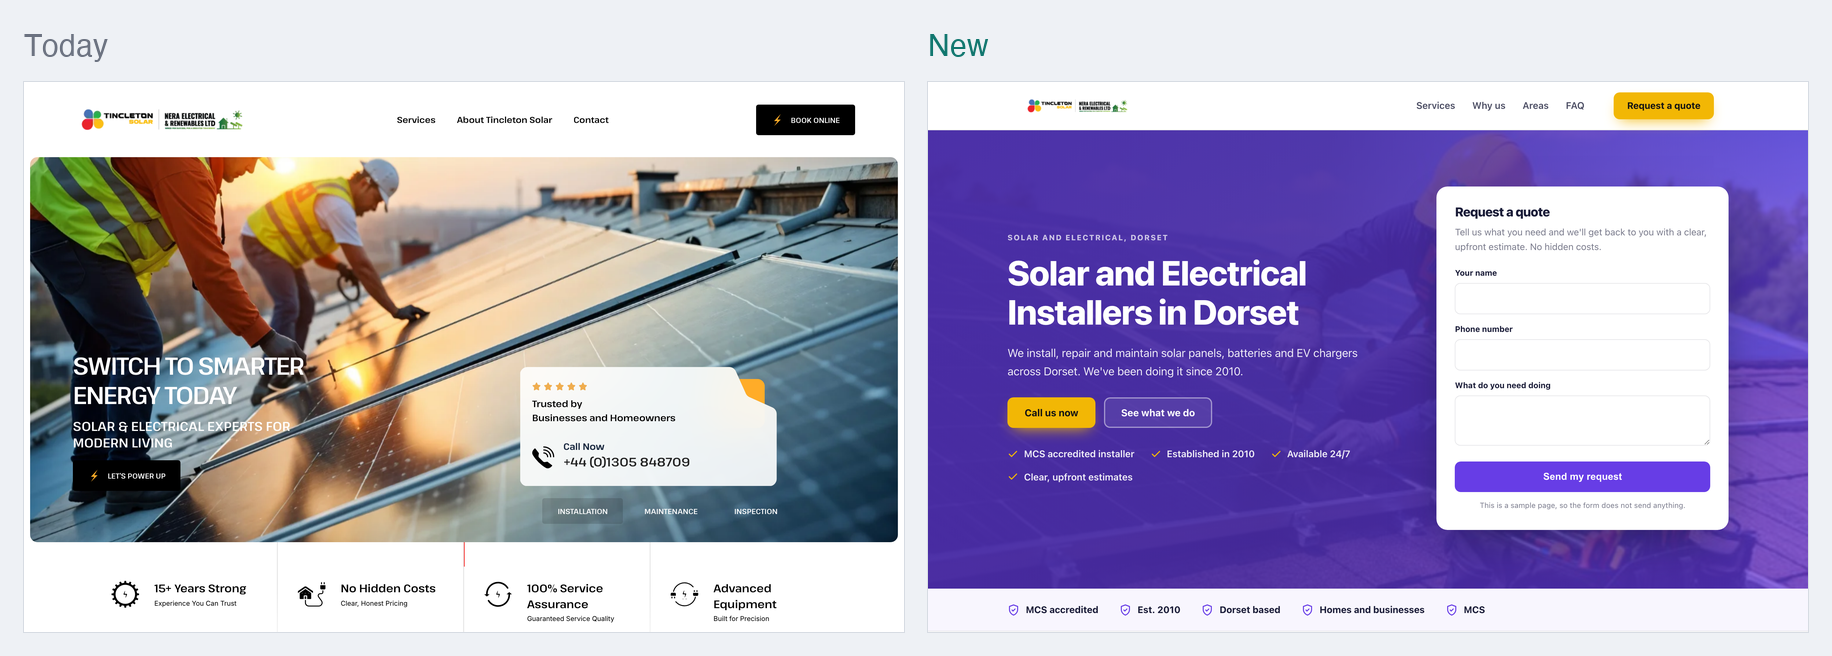
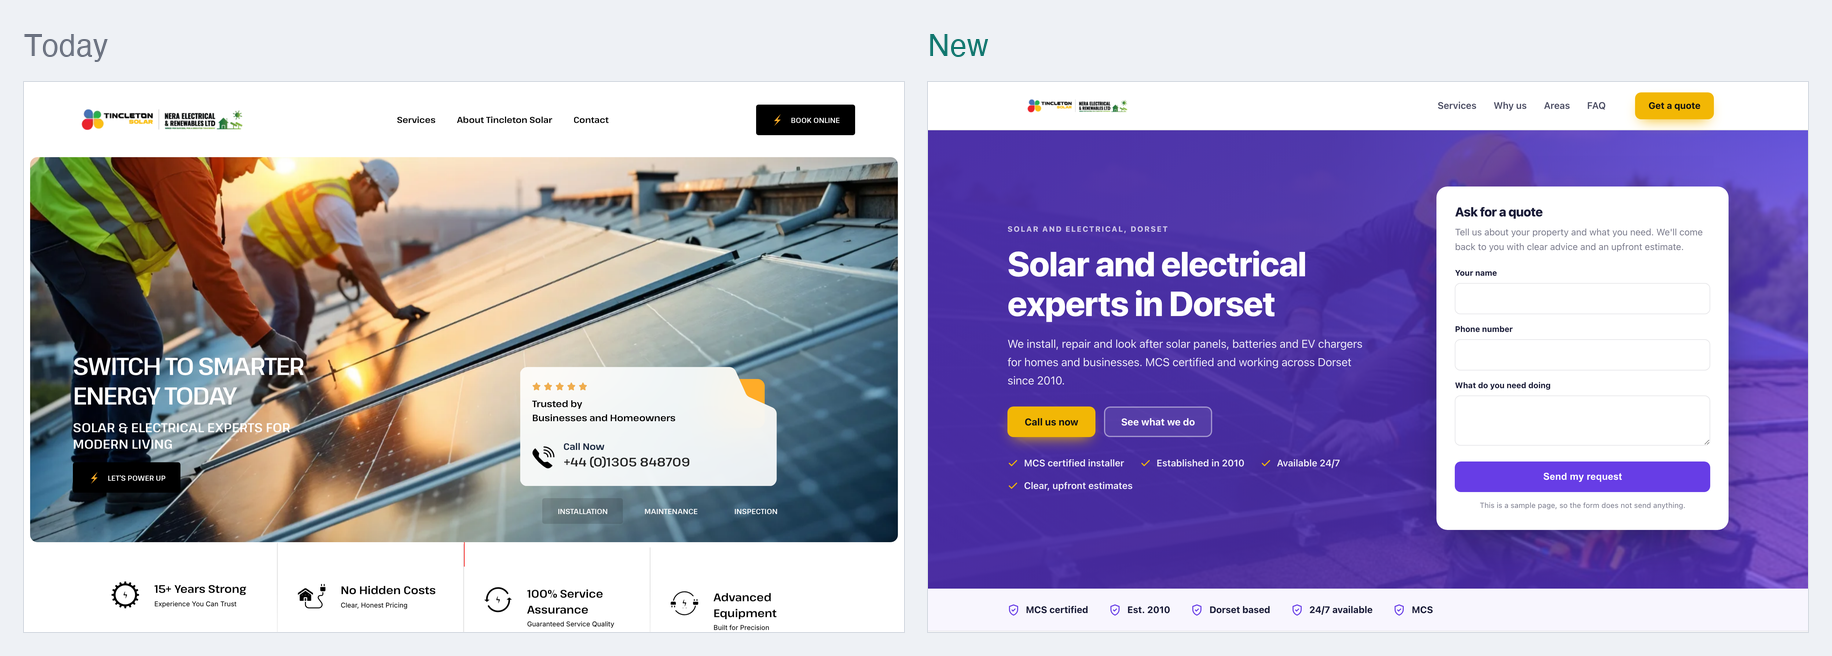
One page sample for Tincleton Solar

diff --git a/docs/0d2117ee6b/index.html b/docs/0d2117ee6b/index.html
@@ -4,14 +4,14 @@
 <meta charset="utf-8">
 <meta name="viewport" content="width=device-width, initial-scale=1">
 <meta name="robots" content="noindex,nofollow">
-<meta name="aso-build" content="022220adff9b">
-<title>Solar &amp; Electrical Installers Dorset | Tincleton Solar</title>
-<meta name="description" content="MCS accredited solar, battery and EV charger installers in Dorset. Tincleton Solar has worked on homes and businesses across the county since 2010.">
+<meta name="aso-build" content="1b9f0f8c0a60">
+<title>Solar &amp; Electrical Installer Dorset | Tincleton Solar</title>
+<meta name="description" content="MCS certified solar panel installation, battery storage, EV chargers and electrical work across Dorset. Established in 2010 and available 24/7.">
 <link rel="canonical" href="https://markygff.github.io/aso-mockups/0d2117ee6b/">
 <meta property="og:type" content="website">
 <meta property="og:site_name" content="Tincleton Solar">
-<meta property="og:title" content="Solar &amp; Electrical Installers Dorset | Tincleton Solar">
-<meta property="og:description" content="MCS accredited solar, battery and EV charger installers in Dorset. Tincleton Solar has worked on homes and businesses across the county since 2010.">
+<meta property="og:title" content="Solar &amp; Electrical Installer Dorset | Tincleton Solar">
+<meta property="og:description" content="MCS certified solar panel installation, battery storage, EV chargers and electrical work across Dorset. Established in 2010 and available 24/7.">
 <meta property="og:url" content="https://markygff.github.io/aso-mockups/0d2117ee6b/">
 <meta property="og:image" content="img/p01.jpg"><meta name="twitter:card" content="summary_large_image">
 <style>
@@ -275,7 +275,7 @@ p{margin:0}
 <a href="#areas">Areas</a>      <a href="#faq">FAQ</a>
     </nav>
     <div class="header-cta">
-      <a class="btn btn-accent" href="#quote">Request a quote</a>
+      <a class="btn btn-accent" href="#quote">Get a quote</a>
     </div>
   </div>
 </header>
@@ -285,18 +285,18 @@ p{margin:0}
   <div class="wrap hero-in">
     <div>
       <p class="eyebrow">Solar and electrical, Dorset</p>
-      <h1>Solar and Electrical Installers in Dorset</h1>
-      <p class="hero-sub">We install, repair and maintain solar panels, batteries and EV chargers across Dorset. We&#39;ve been doing it since 2010.</p>
+      <h1>Solar and electrical experts in Dorset</h1>
+      <p class="hero-sub">We install, repair and look after solar panels, batteries and EV chargers for homes and businesses. MCS certified and working across Dorset since 2010.</p>
       <div class="hero-actions">
         <a class="btn btn-accent" href="#quote">Call us now</a>
         <a class="btn btn-ghost" href="#services">See what we do</a>
       </div>
       <ul class="hero-bullets">
-<li><svg viewBox="0 0 24 24" fill="none" stroke="currentColor" stroke-width="2.4" stroke-linecap="round" stroke-linejoin="round" aria-hidden="true"><path d="M20 6 9 17l-5-5"/></svg><span>MCS accredited installer</span></li><li><svg viewBox="0 0 24 24" fill="none" stroke="currentColor" stroke-width="2.4" stroke-linecap="round" stroke-linejoin="round" aria-hidden="true"><path d="M20 6 9 17l-5-5"/></svg><span>Established in 2010</span></li><li><svg viewBox="0 0 24 24" fill="none" stroke="currentColor" stroke-width="2.4" stroke-linecap="round" stroke-linejoin="round" aria-hidden="true"><path d="M20 6 9 17l-5-5"/></svg><span>Available 24/7</span></li><li><svg viewBox="0 0 24 24" fill="none" stroke="currentColor" stroke-width="2.4" stroke-linecap="round" stroke-linejoin="round" aria-hidden="true"><path d="M20 6 9 17l-5-5"/></svg><span>Clear, upfront estimates</span></li>      </ul>
+<li><svg viewBox="0 0 24 24" fill="none" stroke="currentColor" stroke-width="2.4" stroke-linecap="round" stroke-linejoin="round" aria-hidden="true"><path d="M20 6 9 17l-5-5"/></svg><span>MCS certified installer</span></li><li><svg viewBox="0 0 24 24" fill="none" stroke="currentColor" stroke-width="2.4" stroke-linecap="round" stroke-linejoin="round" aria-hidden="true"><path d="M20 6 9 17l-5-5"/></svg><span>Established in 2010</span></li><li><svg viewBox="0 0 24 24" fill="none" stroke="currentColor" stroke-width="2.4" stroke-linecap="round" stroke-linejoin="round" aria-hidden="true"><path d="M20 6 9 17l-5-5"/></svg><span>Available 24/7</span></li><li><svg viewBox="0 0 24 24" fill="none" stroke="currentColor" stroke-width="2.4" stroke-linecap="round" stroke-linejoin="round" aria-hidden="true"><path d="M20 6 9 17l-5-5"/></svg><span>Clear, upfront estimates</span></li>      </ul>
     </div>
     <div class="quote-card" id="quote">
-      <h3>Request a quote</h3>
-      <p class="lead">Tell us what you need and we&#39;ll get back to you with a clear, upfront estimate. No hidden costs.</p>
+      <h3>Ask for a quote</h3>
+      <p class="lead">Tell us about your property and what you need. We&#39;ll come back to you with clear advice and an upfront estimate.</p>
       <form action="#" onsubmit="return false" novalidate>
         <div class="field"><label for="h-name">Your name</label>
           <input id="h-name" name="name" type="text" autocomplete="name"></div>
@@ -313,10 +313,10 @@ p{margin:0}
 
 <div class="trust">
   <div class="wrap trust-in">
-    <div class="trust-item"><svg viewBox="0 0 24 24" fill="none" stroke="currentColor" stroke-width="2" stroke-linecap="round" stroke-linejoin="round" aria-hidden="true"><path d="M12 2 4 5v6c0 5 3.4 9.4 8 11 4.6-1.6 8-6 8-11V5z"/><path d="m9 12 2 2 4-4"/></svg><span>MCS accredited</span></div>
+    <div class="trust-item"><svg viewBox="0 0 24 24" fill="none" stroke="currentColor" stroke-width="2" stroke-linecap="round" stroke-linejoin="round" aria-hidden="true"><path d="M12 2 4 5v6c0 5 3.4 9.4 8 11 4.6-1.6 8-6 8-11V5z"/><path d="m9 12 2 2 4-4"/></svg><span>MCS certified</span></div>
     <div class="trust-item"><svg viewBox="0 0 24 24" fill="none" stroke="currentColor" stroke-width="2" stroke-linecap="round" stroke-linejoin="round" aria-hidden="true"><path d="M12 2 4 5v6c0 5 3.4 9.4 8 11 4.6-1.6 8-6 8-11V5z"/><path d="m9 12 2 2 4-4"/></svg><span>Est. 2010</span></div>
     <div class="trust-item"><svg viewBox="0 0 24 24" fill="none" stroke="currentColor" stroke-width="2" stroke-linecap="round" stroke-linejoin="round" aria-hidden="true"><path d="M12 2 4 5v6c0 5 3.4 9.4 8 11 4.6-1.6 8-6 8-11V5z"/><path d="m9 12 2 2 4-4"/></svg><span>Dorset based</span></div>
-    <div class="trust-item"><svg viewBox="0 0 24 24" fill="none" stroke="currentColor" stroke-width="2" stroke-linecap="round" stroke-linejoin="round" aria-hidden="true"><path d="M12 2 4 5v6c0 5 3.4 9.4 8 11 4.6-1.6 8-6 8-11V5z"/><path d="m9 12 2 2 4-4"/></svg><span>Homes and businesses</span></div>
+    <div class="trust-item"><svg viewBox="0 0 24 24" fill="none" stroke="currentColor" stroke-width="2" stroke-linecap="round" stroke-linejoin="round" aria-hidden="true"><path d="M12 2 4 5v6c0 5 3.4 9.4 8 11 4.6-1.6 8-6 8-11V5z"/><path d="m9 12 2 2 4-4"/></svg><span>24/7 available</span></div>
     <div class="trust-item"><svg viewBox="0 0 24 24" fill="none" stroke="currentColor" stroke-width="2" stroke-linecap="round" stroke-linejoin="round" aria-hidden="true"><path d="M12 2 4 5v6c0 5 3.4 9.4 8 11 4.6-1.6 8-6 8-11V5z"/><path d="m9 12 2 2 4-4"/></svg><span>MCS</span></div>
   </div>
 </div>
@@ -326,54 +326,54 @@ p{margin:0}
     <div class="section-head">
       <p class="eyebrow">What we do</p>
       <h2>Solar and electrical services in Dorset</h2>
-      <p>We look after solar systems from first fit to long-term care. We also handle batteries, EV chargers and general electrical work.</p>
+      <p>We look after the whole system, from the panels on the roof to the charger on the drive. Here&#39;s what we do.</p>
     </div>
     <div class="grid grid-3">
       <article class="card card-photo">
         <img src="img/p13.jpg" alt="Solar Installation" width="600" height="380" loading="lazy">
         <div class="card-body">
           <h3>Solar Installation</h3>
-          <p>Solar panel systems designed and fitted for your home or business. A good fit if you want to cut your electricity bills.</p>
+          <p>New solar panel systems for homes and businesses across Dorset, designed around how you use power.</p>
         </div>
       </article>
       <article class="card card-photo">
-        <img src="img/p14.jpg" alt="Battery Installation" width="600" height="380" loading="lazy">
+        <img src="img/p14.jpg" alt="Solar System Repair" width="600" height="380" loading="lazy">
         <div class="card-body">
-          <h3>Battery Installation</h3>
-          <p>A battery stores the power your panels make so you can use it later. With battery backup you can keep power on when the grid goes down.</p>
+          <h3>Solar System Repair</h3>
+          <p>Panels producing less than they should, or an inverter showing a fault? We find the problem and fix it.</p>
         </div>
       </article>
       <article class="card card-photo">
-        <img src="img/p15.jpg" alt="Electric Vehicle Charging" width="600" height="380" loading="lazy">
+        <img src="img/p15.jpg" alt="Solar System Maintenance" width="600" height="380" loading="lazy">
         <div class="card-body">
-          <h3>Electric Vehicle Charging</h3>
-          <p>EV charger installation for homes and businesses, wired in safely. Worth doing once you&#39;ve got an electric car on the drive.</p>
+          <h3>Solar System Maintenance</h3>
+          <p>Routine checks and cleaning that keep an existing system running efficiently year after year.</p>
         </div>
       </article>
       <article class="card">
         <div class="icon"><svg viewBox="0 0 24 24" fill="none" stroke="currentColor" stroke-width="2" stroke-linecap="round" stroke-linejoin="round" aria-hidden="true"><path d="M4 20 15 9"/><path d="m14 4 6 6-3 3-6-6z"/><path d="m3 15 6 6"/></svg></div>
-        <h3>Solar System Repair</h3>
-        <p>Panels underperforming or a system that&#39;s stopped working? We find the fault and put it right.</p>
+        <h3>Solar System Inspection &amp; Investigation Service</h3>
+        <p>A detailed look at a system that isn&#39;t performing, or one you&#39;ve inherited with a property, so you know where it stands.</p>
       </article>
       <article class="card">
         <div class="icon"><svg viewBox="0 0 24 24" fill="none" stroke="currentColor" stroke-width="2" stroke-linecap="round" stroke-linejoin="round" aria-hidden="true"><path d="M12 3s5 4.2 5 9a5 5 0 0 1-10 0c0-1.8.8-3.2 1.6-4.2.3 1 1 1.9 1.9 2.3C11 8.4 10.7 5.6 12 3z"/></svg></div>
-        <h3>Solar System Maintenance</h3>
-        <p>Routine checks and cleaning that keep your panels running efficiently. Most systems need very little, but regular care helps them last.</p>
+        <h3>Solar System Performance &amp; Asset Management</h3>
+        <p>We keep watch on how your system performs over time, so drops in output get spotted and dealt with.</p>
       </article>
       <article class="card">
         <div class="icon"><svg viewBox="0 0 24 24" fill="none" stroke="currentColor" stroke-width="2" stroke-linecap="round" stroke-linejoin="round" aria-hidden="true"><path d="M2 7h11v10H2z"/><path d="M13 10h4l4 3.5V17h-8z"/><circle cx="6" cy="18" r="2"/><circle cx="17" cy="18" r="2"/></svg></div>
-        <h3>Solar System Inspection &amp; Investigation Service</h3>
-        <p>We inspect systems that aren&#39;t performing as they should and find out why. Useful if you&#39;ve moved into a house with panels already fitted.</p>
+        <h3>Battery Installation</h3>
+        <p>Store the power your panels make during the day and use it in the evening, or keep the lights on in a power cut.</p>
       </article>
       <article class="card">
         <div class="icon"><svg viewBox="0 0 24 24" fill="none" stroke="currentColor" stroke-width="2" stroke-linecap="round" stroke-linejoin="round" aria-hidden="true"><path d="M12 2 4 5v6c0 5 3.4 9.4 8 11 4.6-1.6 8-6 8-11V5z"/><path d="m9 12 2 2 4-4"/></svg></div>
-        <h3>Solar System Performance &amp; Asset Management</h3>
-        <p>We keep track of how your system performs over time and flag problems early. Suited to businesses and owners of larger installations.</p>
+        <h3>Electric Vehicle Charging</h3>
+        <p>A home or business charge point for your electric vehicle, wired in safely and ready to pair with solar.</p>
       </article>
       <article class="card">
         <div class="icon"><svg viewBox="0 0 24 24" fill="none" stroke="currentColor" stroke-width="2" stroke-linecap="round" stroke-linejoin="round" aria-hidden="true"><circle cx="12" cy="12" r="9"/><path d="M12 7v5l3 2"/></svg></div>
         <h3>Electrical Installations</h3>
-        <p>General electrical work for homes and businesses across Dorset, carried out by our own team.</p>
+        <p>General electrical work for homes and businesses, carried out by a certified team.</p>
       </article>
     </div>
   </div>
@@ -383,35 +383,35 @@ p{margin:0}
   <div class="wrap">
     <div class="section-head">
       <p class="eyebrow">Why us</p>
-      <h2>Why Dorset customers choose Tincleton Solar</h2>
+      <h2>Why people in Dorset choose Tincleton</h2>
     </div>
     <div class="grid grid-2">
       <div class="why-item">
         <div class="why-badge">1</div>
         <div>
-          <h3>MCS accredited</h3>
-          <p>We&#39;re MCS accredited, so your solar installation is carried out to the recognised industry standard.</p>
+          <h3>MCS certified</h3>
+          <p>Our solar installations are carried out to MCS standards by a certified team.</p>
         </div>
       </div>
       <div class="why-item">
         <div class="why-badge">2</div>
         <div>
-          <h3>Working since 2010</h3>
-          <p>We&#39;ve worked on solar and electrical systems across Dorset since 2010.</p>
+          <h3>Established in 2010</h3>
+          <p>We&#39;ve been installing and looking after solar systems across Dorset for over a decade.</p>
         </div>
       </div>
       <div class="why-item">
         <div class="why-badge">3</div>
         <div>
-          <h3>Clear, upfront pricing</h3>
-          <p>You get a clear estimate before any work starts. No hidden costs and no surprises.</p>
+          <h3>Available 24/7</h3>
+          <p>Our team is available around the clock when something goes wrong with your system.</p>
         </div>
       </div>
       <div class="why-item">
         <div class="why-badge">4</div>
         <div>
-          <h3>Available 24/7</h3>
-          <p>We&#39;re available around the clock, so you can get in touch whenever a problem turns up.</p>
+          <h3>No hidden costs</h3>
+          <p>You get a clear, upfront estimate before any work starts. No surprises on the bill.</p>
         </div>
       </div>
     </div>
@@ -424,7 +424,7 @@ p{margin:0}
     <div class="section-head">
       <p class="eyebrow">Where we work</p>
       <h2>Solar and electrical work across Dorset</h2>
-      <p>We&#39;re a Dorset company. We work with homes and businesses right across the county.</p>
+      <p>We&#39;re based in Dorset and work with homes and businesses across the county.</p>
     </div>
     <ul class="area-list">
 <li>Dorset</li>    </ul>
@@ -435,27 +435,27 @@ p{margin:0}
   <div class="wrap" style="max-width:840px">
     <div class="section-head">
       <p class="eyebrow">Questions</p>
-      <h2>Solar questions, answered</h2>
+      <h2>Solar and electrical questions answered</h2>
     </div>
     <div class="faq-item">
-      <h3><span>Q.</span>Do you install solar panels in Dorset?</h3>
-      <p>Yes. We&#39;re an MCS accredited installer and we&#39;ve worked with homes and businesses across Dorset since 2010. Send us your details and we&#39;ll put together a clear, upfront estimate.</p>
+      <h3><span>Q.</span>Do you do emergency solar or electrical call-outs in Dorset?</h3>
+      <p>Our team is available 24/7. Tell us what&#39;s happening when you get in touch and we&#39;ll give you clear advice on what to do next.</p>
     </div>
     <div class="faq-item">
-      <h3><span>Q.</span>Is solar expensive to install?</h3>
-      <p>It&#39;s an investment up front, but it pays back over time through lower electricity bills. We&#39;ll give you a clear estimate before anything starts, with no hidden costs.</p>
+      <h3><span>Q.</span>What areas do you cover?</h3>
+      <p>We work across Dorset, for homes and businesses throughout the county.</p>
     </div>
     <div class="faq-item">
-      <h3><span>Q.</span>How long do solar panels last?</h3>
-      <p>Most solar panels last 25 to 30 years or more, with consistent performance and very little maintenance. Occasional cleaning and routine checks are usually enough.</p>
+      <h3><span>Q.</span>Do you give free quotes for solar panels?</h3>
+      <p>Advice from our team costs nothing. Once we understand what you need, we give you a clear, upfront estimate with no hidden costs.</p>
     </div>
     <div class="faq-item">
       <h3><span>Q.</span>Will solar panels work during a power cut?</h3>
-      <p>Standard systems shut off during an outage for safety. With a battery installed, you can still have power when the grid goes down. We can talk you through adding one.</p>
+      <p>Standard systems shut off during an outage for safety. With battery backup added, you can still have power when the grid goes down.</p>
     </div>
     <div class="faq-item">
-      <h3><span>Q.</span>What should I do if my solar panels stop working?</h3>
-      <p>Get in touch. We offer solar system repair and an inspection and investigation service. We&#39;ll find out why the system isn&#39;t performing and tell you what it needs before we fix it. We&#39;re available 24/7.</p>
+      <h3><span>Q.</span>What maintenance do solar panels need?</h3>
+      <p>Very little. Occasional cleaning and routine checks are enough to keep them running efficiently. If output drops, our inspection and repair service will find out why.</p>
     </div>
   </div>
 </section>
@@ -464,8 +464,8 @@ p{margin:0}
   <div class="wrap contact-in">
     <div>
       <p class="eyebrow">Get in touch</p>
-      <h2 style="font-size:clamp(1.75rem,3.2vw,2.4rem);margin-bottom:14px">Request a quote</h2>
-      <p style="color:var(--muted);font-size:1.06rem">Tell us what you need and we&#39;ll get back to you with a clear, upfront estimate. No hidden costs.</p>
+      <h2 style="font-size:clamp(1.75rem,3.2vw,2.4rem);margin-bottom:14px">Ask for a quote</h2>
+      <p style="color:var(--muted);font-size:1.06rem">Tell us about your property and what you need. We&#39;ll come back to you with clear advice and an upfront estimate.</p>
       <div class="contact-facts">
         <div class="fact-row"><svg viewBox="0 0 24 24" fill="none" stroke="currentColor" stroke-width="2" stroke-linecap="round" stroke-linejoin="round" aria-hidden="true"><rect x="2" y="4" width="20" height="16" rx="2"/><path d="m2 7 10 6 10-6"/></svg><div><strong>Email</strong>
           <a href="mailto:info@tincleton.co.uk">info@tincleton.co.uk</a></div></div>
@@ -486,7 +486,7 @@ p{margin:0}
           <input id="c-email" name="email" type="email" autocomplete="email"></div>
         <div class="field"><label for="c-service">What do you need</label>
           <select id="c-service" name="service">
-<option>Solar Installation</option><option>Battery Installation</option><option>Electric Vehicle Charging</option><option>Solar System Repair</option><option>Solar System Maintenance</option><option>Solar System Inspection &amp; Investigation Service</option><option>Solar System Performance &amp; Asset Management</option><option>Electrical Installations</option>            <option>Something else</option>
+<option>Solar Installation</option><option>Solar System Repair</option><option>Solar System Maintenance</option><option>Solar System Inspection &amp; Investigation Service</option><option>Solar System Performance &amp; Asset Management</option><option>Battery Installation</option><option>Electric Vehicle Charging</option><option>Electrical Installations</option>            <option>Something else</option>
           </select></div>
         <div class="field"><label for="c-msg">Tell us about the job</label>
           <textarea id="c-msg" name="message"></textarea></div>
@@ -503,11 +503,11 @@ p{margin:0}
     <div class="footer-in">
       <div>
         <div class="footer-brand">Tincleton Solar</div>
-        <p>Solar, battery, EV charging and electrical installations across Dorset since 2010.</p>
+        <p>MCS certified solar, battery, EV charging and electrical work across Dorset since 2010.</p>
       </div>
       <div>
         <h4>Services</h4>
-        <ul><li>Solar Installation</li><li>Battery Installation</li><li>Electric Vehicle Charging</li><li>Solar System Repair</li><li>Solar System Maintenance</li><li>Solar System Inspection &amp; Investigation Service</li></ul>
+        <ul><li>Solar Installation</li><li>Solar System Repair</li><li>Solar System Maintenance</li><li>Solar System Inspection &amp; Investigation Service</li><li>Solar System Performance &amp; Asset Management</li><li>Battery Installation</li></ul>
       </div>
       <div>
         <h4>Areas</h4>
@@ -527,7 +527,7 @@ p{margin:0}
     "@type": "Electrician",
     "name": "Tincleton Solar",
     "url": "https://markygff.github.io/aso-mockups/0d2117ee6b/",
-    "description": "MCS accredited solar, battery and EV charger installers in Dorset. Tincleton Solar has worked on homes and businesses across the county since 2010.",
+    "description": "MCS certified solar panel installation, battery storage, EV chargers and electrical work across Dorset. Established in 2010 and available 24/7.",
     "email": "info@tincleton.co.uk",
     "address": {
       "@type": "PostalAddress",
@@ -548,20 +548,6 @@ p{margin:0}
         "itemOffered": {
           "@type": "Service",
           "name": "Solar Installation"
-        }
-      },
-      {
-        "@type": "Offer",
-        "itemOffered": {
-          "@type": "Service",
-          "name": "Battery Installation"
-        }
-      },
-      {
-        "@type": "Offer",
-        "itemOffered": {
-          "@type": "Service",
-          "name": "Electric Vehicle Charging"
         }
       },
       {
@@ -596,6 +582,20 @@ p{margin:0}
         "@type": "Offer",
         "itemOffered": {
           "@type": "Service",
+          "name": "Battery Installation"
+        }
+      },
+      {
+        "@type": "Offer",
+        "itemOffered": {
+          "@type": "Service",
+          "name": "Electric Vehicle Charging"
+        }
+      },
+      {
+        "@type": "Offer",
+        "itemOffered": {
+          "@type": "Service",
           "name": "Electrical Installations"
         }
       }
@@ -609,26 +609,26 @@ p{margin:0}
     "mainEntity": [
       {
         "@type": "Question",
-        "name": "Do you install solar panels in Dorset?",
+        "name": "Do you do emergency solar or electrical call-outs in Dorset?",
         "acceptedAnswer": {
           "@type": "Answer",
-          "text": "Yes. We're an MCS accredited installer and we've worked with homes and businesses across Dorset since 2010. Send us your details and we'll put together a clear, upfront estimate."
+          "text": "Our team is available 24/7. Tell us what's happening when you get in touch and we'll give you clear advice on what to do next."
         }
       },
       {
         "@type": "Question",
-        "name": "Is solar expensive to install?",
+        "name": "What areas do you cover?",
         "acceptedAnswer": {
           "@type": "Answer",
-          "text": "It's an investment up front, but it pays back over time through lower electricity bills. We'll give you a clear estimate before anything starts, with no hidden costs."
+          "text": "We work across Dorset, for homes and businesses throughout the county."
         }
       },
       {
         "@type": "Question",
-        "name": "How long do solar panels last?",
+        "name": "Do you give free quotes for solar panels?",
         "acceptedAnswer": {
           "@type": "Answer",
-          "text": "Most solar panels last 25 to 30 years or more, with consistent performance and very little maintenance. Occasional cleaning and routine checks are usually enough."
+          "text": "Advice from our team costs nothing. Once we understand what you need, we give you a clear, upfront estimate with no hidden costs."
         }
       },
       {
@@ -636,15 +636,15 @@ p{margin:0}
         "name": "Will solar panels work during a power cut?",
         "acceptedAnswer": {
           "@type": "Answer",
-          "text": "Standard systems shut off during an outage for safety. With a battery installed, you can still have power when the grid goes down. We can talk you through adding one."
+          "text": "Standard systems shut off during an outage for safety. With battery backup added, you can still have power when the grid goes down."
         }
       },
       {
         "@type": "Question",
-        "name": "What should I do if my solar panels stop working?",
+        "name": "What maintenance do solar panels need?",
         "acceptedAnswer": {
           "@type": "Answer",
-          "text": "Get in touch. We offer solar system repair and an inspection and investigation service. We'll find out why the system isn't performing and tell you what it needs before we fix it. We're available 24/7."
+          "text": "Very little. Occasional cleaning and routine checks are enough to keep them running efficiently. If output drops, our inspection and repair service will find out why."
         }
       }
     ]
